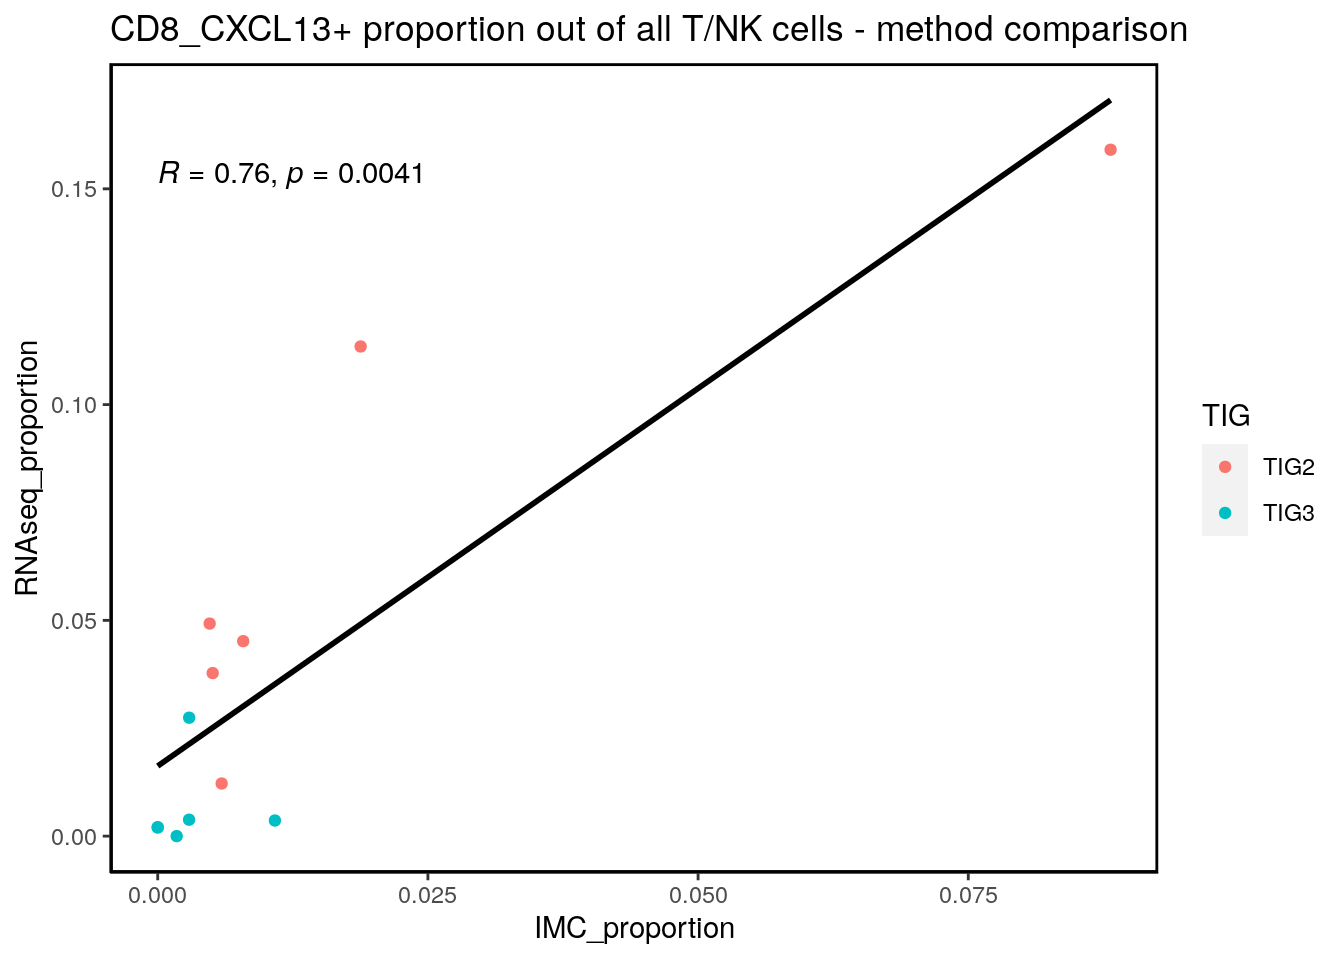
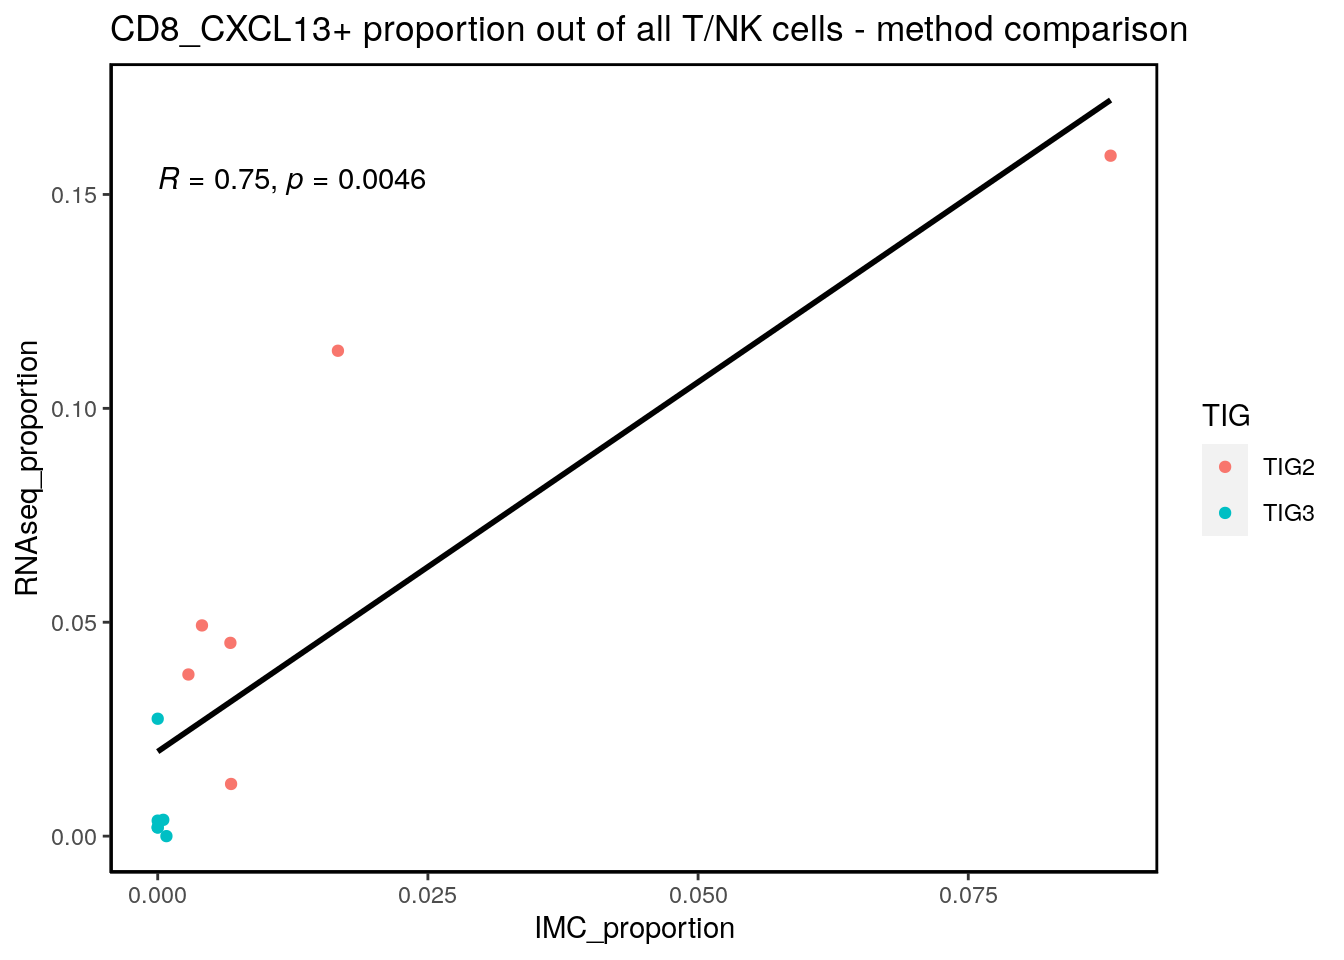
Build site.

diff --git a/docs/10_RNApanel_TNK_cytokines.html b/docs/10_RNApanel_TNK_cytokines.html
@@ -413,7 +413,7 @@ div.tocify {
 <div class="tab-content">
 <div id="summary" class="tab-pane fade in active">
 <p>
-<strong>Last updated:</strong> 2020-11-19
+<strong>Last updated:</strong> 2020-12-02
 </p>
 <p>
 <strong>Checks:</strong> <span class="glyphicon glyphicon-ok text-success" aria-hidden="true"></span> 7 <span class="glyphicon glyphicon-exclamation-sign text-danger" aria-hidden="true"></span> 0
@@ -504,16 +504,16 @@ This reproducible <a href="http://rmarkdown.rstudio.com">R Markdown</a> analysis
 <div class="panel panel-default">
 <div class="panel-heading">
 <p class="panel-title">
-<a data-toggle="collapse" data-parent="#workflowr-checks" href="#strongRepositoryversionstrongahrefhttpsgithubcomSandraTietscherBCexhIMCtree29fd85550f2d2e90d7e72a5eda460cad40041c03targetblank29fd855a"> <span class="glyphicon glyphicon-ok text-success" aria-hidden="true"></span> <strong>Repository version:</strong> <a href="https://github.com/SandraTietscher/BCexh_IMC/tree/29fd85550f2d2e90d7e72a5eda460cad40041c03" target="_blank">29fd855</a> </a>
+<a data-toggle="collapse" data-parent="#workflowr-checks" href="#strongRepositoryversionstrongahrefhttpsgithubcomSandraTietscherBCexhIMCtreefc86fff79148d81ca4be592f92b4c74e2ad2e456targetblankfc86fffa"> <span class="glyphicon glyphicon-ok text-success" aria-hidden="true"></span> <strong>Repository version:</strong> <a href="https://github.com/SandraTietscher/BCexh_IMC/tree/fc86fff79148d81ca4be592f92b4c74e2ad2e456" target="_blank">fc86fff</a> </a>
 </p>
 </div>
[2 lines of base64/hex data omitted]
 <div class="panel-body">
 <p>
 Great! You are using Git for version control. Tracking code development and connecting the code version to the results is critical for reproducibility.
 </p>
 <p>
-The results in this page were generated with repository version <a href="https://github.com/SandraTietscher/BCexh_IMC/tree/29fd85550f2d2e90d7e72a5eda460cad40041c03" target="_blank">29fd855</a>. See the <em>Past versions</em> tab to see a history of the changes made to the R Markdown and HTML files.
+The results in this page were generated with repository version <a href="https://github.com/SandraTietscher/BCexh_IMC/tree/fc86fff79148d81ca4be592f92b4c74e2ad2e456" target="_blank">fc86fff</a>. See the <em>Past versions</em> tab to see a history of the changes made to the R Markdown and HTML files.
 </p>
 <p>
 Note that you need to be careful to ensure that all relevant files for the analysis have been committed to Git prior to generating the results (you can use <code>wflow_publish</code> or <code>wflow_git_commit</code>). workflowr only checks the R Markdown file, but you know if there are other scripts or data files that it depends on. Below is the status of the Git repository when the results were generated:
@@ -521,7 +521,6 @@ Note that you need to be careful to ensure that all relevant files for the analy
 <pre><code>
 Ignored files:
     Ignored:    analysis/.Rhistory
-    Ignored:    analysis/figure/
 
 Untracked files:
     Untracked:  CD11c_CD68_scatter.png
@@ -551,10 +550,15 @@ Untracked files:
     Untracked:  output/sce_RNApanel_afterQC.rds
     Untracked:  output/sce_RNApanel_initial.rds
     Untracked:  output/sce_RNApanel_initial_TLSrevised.rds
+    Untracked:  test.pdf
+    Untracked:  test.png
     Untracked:  test_Treg_enrichment.png
 
 Unstaged changes:
-    Modified:   analysis/06_proteinPanel_tumor_analysis.Rmd
+    Modified:   analysis/05_proteinPanel_StromalSubclustering.Rmd
+    Modified:   analysis/07_proteinPanel_TNK_analysis.Rmd
+    Modified:   analysis/11_RNAscope_cytokine_communities.Rmd
+    Modified:   analysis/12_RNApanel_CXCL13_protein.Rmd
 
 </code></pre>
 <p>
@@ -593,6 +597,40 @@ Message
 </tr>
 </thead>
 <tbody>
+<tr>
+<td>
+Rmd
+</td>
+<td>
+<a href="https://github.com/SandraTietscher/BCexh_IMC/blob/fc86fff79148d81ca4be592f92b4c74e2ad2e456/analysis/10_RNApanel_TNK_cytokines.Rmd" target="_blank">fc86fff</a>
+</td>
+<td>
+SandraTietscher
+</td>
+<td>
+2020-12-02
+</td>
+<td>
+Plot changes for paper figures
+</td>
+</tr>
+<tr>
+<td>
+html
+</td>
+<td>
+<a href="https://rawcdn.githack.com/SandraTietscher/BCexh_IMC/75b9d1e03bbfae66f7fde75eb13200447b4e31b6/docs/10_RNApanel_TNK_cytokines.html" target="_blank">75b9d1e</a>
+</td>
+<td>
+SandraTietscher
+</td>
+<td>
+2020-11-19
+</td>
+<td>
+Build site.
+</td>
+</tr>
 <tr>
 <td>
 Rmd
@@ -1134,10 +1172,10 @@ SandraTietscher
 <h1>Assign CSF1+ NKT cell subtype</h1>
 <p>All CSF1-positive T and NK cells (except CXCL13+) will be classified as NKT cells. This is only an approximation, but as close as we can get to defining this cell type.</p>
 <pre class="r"><code>sce_RNA$subtype &lt;- ifelse(sce_RNA$subtype %in% c(&quot;NK&quot;, &quot;T_CD8&quot;, &quot;T_CD4&quot;) &amp; sce_RNA$CSF1_expression == 1, &quot;CSF1_NKT&quot;, sce_RNA$subtype)</code></pre>
-<div id="check-csf1_nkt-proportionsfrequency-out-of-all-cells" class="section level2">
-<h2>Check CSF1_NKT proportions/frequency (out of all cells)</h2>
-<div id="across-tls-states-1" class="section level3">
-<h3>Across TLS states</h3>
+<div id="check-csf1_nkt-proportionsfrequency" class="section level2">
+<h2>Check CSF1_NKT proportions/frequency</h2>
+<div id="across-tls-states-proportion-out-of-all-cells" class="section level3">
+<h3>Across TLS states; proportion out of all cells</h3>
 <pre class="r"><code>tab &lt;- as.data.frame(prop.table(table(sce_RNA$ImageNumber, sce_RNA$subtype), margin = 1)) %&gt;% filter(Var2 == &quot;CSF1_NKT&quot;)
 frequency &lt;- as.data.frame(table(sce_RNA$ImageNumber, sce_RNA$subtype)) %&gt;% filter(Var2 == &quot;CSF1_NKT&quot;)
 tab$frequency &lt;- frequency[,3]
@@ -1277,8 +1315,8 @@ SandraTietscher
 </div>
 </div>
 </div>
-<div id="across-samplestigs" class="section level3">
-<h3>Across samples/TIGs</h3>
+<div id="across-samplestigs-proportion-out-of-tnk-cells" class="section level3">
+<h3>Across samples/TIGs, proportion out of T/NK cells</h3>
 <p>For non-TLS images only.</p>
 <pre class="r"><code>sce_TLSex &lt;- sce_RNA[,which(sce_RNA$TLS == &quot;no&quot;)]
 sce_TLSex_TNK &lt;- sce_TLSex[,which(sce_TLSex$celltype %in% c(&quot;T_CD4&quot;, &quot;T_CD8&quot;, &quot;NK&quot;))]
@@ -1395,7 +1433,8 @@ prop &lt;- prop[!(prop$sample %in% not.measured),]
 
 # Retrieve IMC proportions (of all T/NK cells)
 sce_TNK &lt;- sce_RNA[, which(sce_RNA$celltype %in% c(&quot;NK&quot;, &quot;T_CD4&quot;, &quot;T_CD8&quot;))]
-IMC_prop &lt;- as.data.frame(prop.table(table(sce_TNK$sample, sce_TNK$subtype), margin = 1)) %&gt;% filter(Var2 == &quot;CSF1_NKT&quot;)
+sce_TNK_TLSex &lt;- sce_TNK[,which(sce_TNK$TLS == &quot;no&quot;)]
+IMC_prop &lt;- as.data.frame(prop.table(table(sce_TNK_TLSex$sample, sce_TNK_TLSex$subtype), margin = 1)) %&gt;% filter(Var2 == &quot;CSF1_NKT&quot;)
 colnames(IMC_prop) &lt;- c(&quot;sample&quot;, &quot;subtype&quot;, &quot;IMC_proportion&quot;)
 
 # Merge
@@ -1466,8 +1505,7 @@ not.measured &lt;- c(&quot;TBB011&quot;, &quot;TBB330&quot;)
 prop &lt;- prop[!(prop$sample %in% not.measured),]
 
 # Retrieve IMC proportions (of all T/NK cells)
-sce_TNK &lt;- sce_RNA[, which(sce_RNA$celltype %in% c(&quot;NK&quot;, &quot;T_CD4&quot;, &quot;T_CD8&quot;))]
-IMC_prop &lt;- as.data.frame(prop.table(table(sce_TNK$sample, sce_TNK$subtype), margin = 1)) %&gt;% filter(Var2 == &quot;T_CD4_CXCL13&quot;)
+IMC_prop &lt;- as.data.frame(prop.table(table(sce_TNK_TLSex$sample, sce_TNK_TLSex$subtype), margin = 1)) %&gt;% filter(Var2 == &quot;T_CD4_CXCL13&quot;)
 colnames(IMC_prop) &lt;- c(&quot;sample&quot;, &quot;subtype&quot;, &quot;IMC_proportion&quot;)
 
 # Merge
@@ -1538,8 +1576,7 @@ not.measured &lt;- c(&quot;TBB011&quot;, &quot;TBB330&quot;)
 prop &lt;- prop[!(prop$sample %in% not.measured),]
 
 # Retrieve IMC proportions (of all T/NK cells)
-sce_TNK &lt;- sce_RNA[, which(sce_RNA$celltype %in% c(&quot;NK&quot;, &quot;T_CD4&quot;, &quot;T_CD8&quot;))]
-IMC_prop &lt;- as.data.frame(prop.table(table(sce_TNK$sample, sce_TNK$subtype), margin = 1)) %&gt;% filter(Var2 == &quot;T_CD8_CXCL13&quot;)
+IMC_prop &lt;- as.data.frame(prop.table(table(sce_TNK_TLSex$sample, sce_TNK_TLSex$subtype), margin = 1)) %&gt;% filter(Var2 == &quot;T_CD8_CXCL13&quot;)
 colnames(IMC_prop) &lt;- c(&quot;sample&quot;, &quot;subtype&quot;, &quot;IMC_proportion&quot;)
 
 # Merge
@@ -1906,6 +1943,7 @@ prop &lt;- cbind(prop.CXCL13, prop.PD1)
 # Add ROI info
 ROI_info &lt;- read.csv(&quot;data/ROI_info_RNAscope.csv&quot;)
 prop &lt;- cbind(prop, ROI_info)
+prop$sample &lt;- factor(prop$sample, levels = levels(sce_RNA$sample))
 
 # CD4+ T cells
 ggplot(prop, aes(T_CD4_CXCL13, CD4_PD1)) +
@@ -2007,6 +2045,33 @@ SandraTietscher
 </table>
 </div>
 </div>
+<pre class="r"><code># CD4+ T cells
+ggplot(prop, aes(T_CD4_CXCL13, CD4_PD1)) +
+  geom_point(aes(color=sample))+
+  geom_smooth(method = lm, color = &quot;black&quot;, se=FALSE)+
+  stat_cor(method=&quot;spearman&quot;)+
+  theme(axis.line.x = element_line(colour = &quot;black&quot;, size = 0.25),
+        axis.line.y = element_line(colour = &quot;black&quot;, size = 0.25),
+        panel.grid.major = element_blank(),
+        panel.grid.minor = element_blank(),
+        panel.border = element_rect(colour = &quot;black&quot;, fill=NA, size=1),
+        panel.background = element_blank())</code></pre>
+<pre><code>`geom_smooth()` using formula &#39;y ~ x&#39;</code></pre>
+<p><img src="figure/10_RNApanel_TNK_cytokines.Rmd/PD1-CXCL13-correlation-3.png" width="480" style="display: block; margin: auto;" /></p>
+<pre class="r"><code># All T cells
+ggplot(prop, aes(T_CD8_CXCL13+T_CD4_CXCL13, CD8_PD1+CD4_PD1)) +
+  geom_point(aes(color=sample))+
+  geom_smooth(method = lm, color = &quot;black&quot;, se=FALSE)+
+  stat_cor(method=&quot;spearman&quot;)+
+  theme(axis.line.x = element_line(colour = &quot;black&quot;, size = 0.25),
+        axis.line.y = element_line(colour = &quot;black&quot;, size = 0.25),
+        panel.grid.major = element_blank(),
+        panel.grid.minor = element_blank(),
+        panel.border = element_rect(colour = &quot;black&quot;, fill=NA, size=1),
+        panel.background = element_blank())+
+  scale_color_manual(values = sce_TNK@metadata$colour_vectors$sample)</code></pre>
+<pre><code>`geom_smooth()` using formula &#39;y ~ x&#39;</code></pre>
+<p><img src="figure/10_RNApanel_TNK_cytokines.Rmd/PD1-CXCL13-correlation-4.png" width="480" style="display: block; margin: auto;" /></p>
 <br>
 <p>
 <button type="button" class="btn btn-default btn-workflowr btn-workflowr-sessioninfo" data-toggle="collapse" data-target="#workflowr-sessioninfo" style="display: block;">

diff --git a/docs/09_RNApanel_cytokine_expression.html b/docs/09_RNApanel_cytokine_expression.html
@@ -413,7 +413,7 @@ div.tocify {
 <div class="tab-content">
 <div id="summary" class="tab-pane fade in active">
 <p>
-<strong>Last updated:</strong> 2020-11-23
+<strong>Last updated:</strong> 2020-12-02
 </p>
 <p>
 <strong>Checks:</strong> <span class="glyphicon glyphicon-ok text-success" aria-hidden="true"></span> 7 <span class="glyphicon glyphicon-exclamation-sign text-danger" aria-hidden="true"></span> 0
@@ -504,16 +504,16 @@ This reproducible <a href="http://rmarkdown.rstudio.com">R Markdown</a> analysis
 <div class="panel panel-default">
 <div class="panel-heading">
 <p class="panel-title">
-<a data-toggle="collapse" data-parent="#workflowr-checks" href="#strongRepositoryversionstrongahrefhttpsgithubcomSandraTietscherBCexhIMCtree614c4a5a3e1160b1bcda4e95be1ac1c95d3ac1a7targetblank614c4a5a"> <span class="glyphicon glyphicon-ok text-success" aria-hidden="true"></span> <strong>Repository version:</strong> <a href="https://github.com/SandraTietscher/BCexh_IMC/tree/614c4a5a3e1160b1bcda4e95be1ac1c95d3ac1a7" target="_blank">614c4a5</a> </a>
+<a data-toggle="collapse" data-parent="#workflowr-checks" href="#strongRepositoryversionstrongahrefhttpsgithubcomSandraTietscherBCexhIMCtreefc86fff79148d81ca4be592f92b4c74e2ad2e456targetblankfc86fffa"> <span class="glyphicon glyphicon-ok text-success" aria-hidden="true"></span> <strong>Repository version:</strong> <a href="https://github.com/SandraTietscher/BCexh_IMC/tree/fc86fff79148d81ca4be592f92b4c74e2ad2e456" target="_blank">fc86fff</a> </a>
 </p>
 </div>
[2 lines of base64/hex data omitted]
 <div class="panel-body">
 <p>
 Great! You are using Git for version control. Tracking code development and connecting the code version to the results is critical for reproducibility.
 </p>
 <p>
-The results in this page were generated with repository version <a href="https://github.com/SandraTietscher/BCexh_IMC/tree/614c4a5a3e1160b1bcda4e95be1ac1c95d3ac1a7" target="_blank">614c4a5</a>. See the <em>Past versions</em> tab to see a history of the changes made to the R Markdown and HTML files.
+The results in this page were generated with repository version <a href="https://github.com/SandraTietscher/BCexh_IMC/tree/fc86fff79148d81ca4be592f92b4c74e2ad2e456" target="_blank">fc86fff</a>. See the <em>Past versions</em> tab to see a history of the changes made to the R Markdown and HTML files.
 </p>
 <p>
 Note that you need to be careful to ensure that all relevant files for the analysis have been committed to Git prior to generating the results (you can use <code>wflow_publish</code> or <code>wflow_git_commit</code>). workflowr only checks the R Markdown file, but you know if there are other scripts or data files that it depends on. Below is the status of the Git repository when the results were generated:
@@ -550,10 +550,15 @@ Untracked files:
     Untracked:  output/sce_RNApanel_afterQC.rds
     Untracked:  output/sce_RNApanel_initial.rds
     Untracked:  output/sce_RNApanel_initial_TLSrevised.rds
+    Untracked:  test.pdf
+    Untracked:  test.png
     Untracked:  test_Treg_enrichment.png
 
 Unstaged changes:
+    Modified:   analysis/05_proteinPanel_StromalSubclustering.Rmd
+    Modified:   analysis/07_proteinPanel_TNK_analysis.Rmd
     Modified:   analysis/11_RNAscope_cytokine_communities.Rmd
+    Modified:   analysis/12_RNApanel_CXCL13_protein.Rmd
 
 </code></pre>
 <p>
@@ -592,6 +597,40 @@ Message
 </tr>
 </thead>
 <tbody>
+<tr>
+<td>
+Rmd
+</td>
+<td>
+<a href="https://github.com/SandraTietscher/BCexh_IMC/blob/fc86fff79148d81ca4be592f92b4c74e2ad2e456/analysis/09_RNApanel_cytokine_expression.Rmd" target="_blank">fc86fff</a>
+</td>
+<td>
+SandraTietscher
+</td>
+<td>
+2020-12-02
+</td>
+<td>
+Plot changes for paper figures
+</td>
+</tr>
+<tr>
+<td>
+html
+</td>
+<td>
+<a href="https://rawcdn.githack.com/SandraTietscher/BCexh_IMC/7160cb09b1452933376aeac3143d898dada4720b/docs/09_RNApanel_cytokine_expression.html" target="_blank">7160cb0</a>
+</td>
+<td>
+SandraTietscher
+</td>
+<td>
+2020-11-23
+</td>
+<td>
+Build site.
+</td>
+</tr>
 <tr>
 <td>
 html
@@ -1181,7 +1220,7 @@ SandraTietscher
 </div>
 <pre class="r"><code>ggplot(cytokine_prop_g, aes(celltype, proportion_expressing, fill = celltype))+
   geom_bar(stat=&quot;identity&quot;)+
-  facet_wrap(~cytokine)+
+  facet_wrap(~cytokine, scales = &quot;free&quot;)+
   theme(axis.ticks.x = element_blank(),
         axis.text.x=element_blank(),
         panel.background = element_blank(),
@@ -1226,6 +1265,33 @@ SandraTietscher
 </tbody>
 </table>
 </div>
+</div>
+<div id="use-only-main-cell-types" class="section level3">
+<h3>Use only main cell types</h3>
+<pre class="r"><code>sce_RNA$celltype_main &lt;- ifelse(sce_RNA$celltype %in% c(&quot;T_CD8&quot;, &quot;T_CD4&quot;, &quot;NK&quot;), &quot;T_NK&quot;, sce_RNA$celltype)
+
+cytokine_prop &lt;- data.frame(&quot;celltype&quot; = levels(as.factor(sce_RNA$celltype_main)))
+cytokine_colnames &lt;- paste0(cytokine_channels, &quot;_expression&quot;)
+for (i in cytokine_colnames) {
+  cytokine_prop[[i]] &lt;- prop.table(table(sce_RNA$celltype_main, colData(sce_RNA)[,i]), margin = 1)[,2]
+}
+
+cytokine_prop_g &lt;- gather(cytokine_prop, key = &quot;cytokine&quot;, value = &quot;proportion_expressing&quot;, 2:11)
+
+# Change celltype order
+cytokine_prop_g$celltype &lt;- factor(cytokine_prop_g$celltype, levels = unique(cytokine_prop_g$celltype)[c(9,6,3,8,4,1,2,5,7)])
+
+ggplot(filter(cytokine_prop_g, cytokine %in% c(&quot;CCL17_expression&quot;, &quot;CCL22_expression&quot;)), aes(celltype, proportion_expressing, fill = celltype))+
+  geom_bar(stat=&quot;identity&quot;)+
+  facet_wrap(~cytokine, scales = &quot;free&quot;)+
+  theme(axis.ticks.x = element_blank(),
+        axis.text.x=element_blank(),
+        panel.background = element_blank(),
+        panel.border = element_rect(color = &quot;black&quot;, fill = NA, size = 1),
+        strip.background = element_blank(),
+        legend.background = element_blank())+
+   ggtitle(&quot;Proportion of celltype that expresses a given cytokine&quot;)</code></pre>
+<p><img src="figure/09_RNApanel_cytokine_expression.Rmd/chemokine-celltype-proportion-main-1.png" width="768" style="display: block; margin: auto;" /></p>
 </div>
 </div>
 <div id="plot-chemokine-expression-by-celltype---for-non-tls-images-only" class="section level2">
